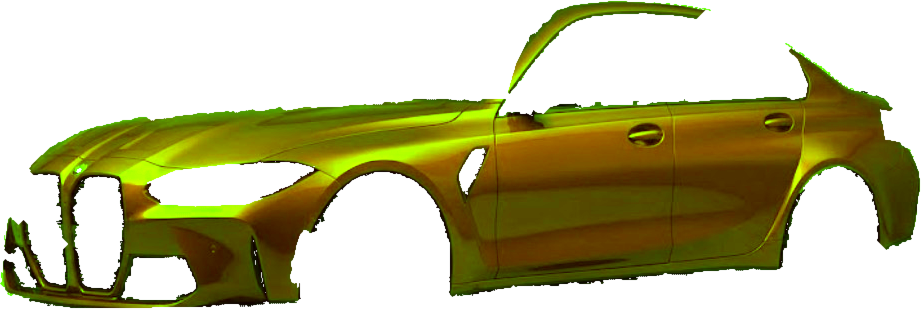
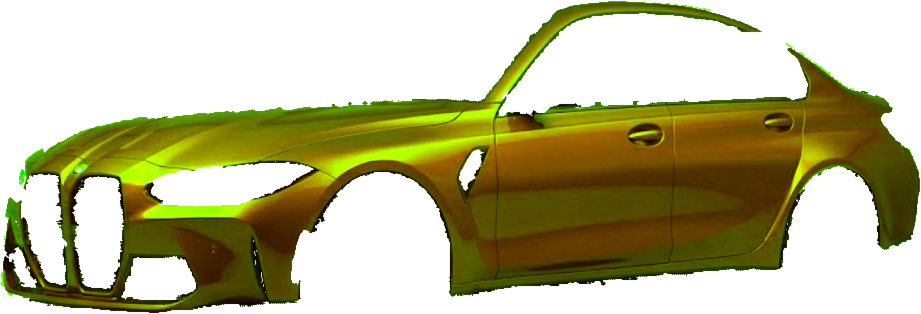
Wrap sedan: clean bumper corner, hood seam, A-pillar and roof-rail edges
Claude-Session: https://claude.ai/code/session_01TC8hHsQGEZ2GaHBM8k3cGS

diff --git a/main.js b/main.js
@@ -36,7 +36,7 @@ function arrowNav(buttons, select) {
 // box = where the shade layer sits in the photo: [x, y, width, height]; size defaults to 1200x900.
 // Bump ASSET_V whenever a photo or shade layer changes, so phones never pair a cached old
 // photo with a new shade layer (that is what makes the repaint look shifted).
-const ASSET_V = '20261109z';
+const ASSET_V = '20261110a';
 const toLin = v => Math.pow(v / 255, 2.2);
 const hexLin = h => { const n = parseInt(h.replace('#', ''), 16); return [n >> 16 & 255, n >> 8 & 255, n & 255].map(toLin); };
 const FIN = { gloss: [1, 1], satin: [0.8, 0.4], matte: [0.6, 0.12] };   // lighting contrast, shine kept
@@ -211,7 +211,7 @@ const wrapPaint = createPainter({
   stage: document.getElementById('wrap-stage'), initial: 'sports', color: '#C8102E',
   vehicles: {
     sports: { img: asset('wrap-sports.webp'), shade: asset('wrap-sports-shade.png'), box: [74, 219, 979, 435], size: [1117, 787], alt: 'Lamborghini Huracan with its body wrapped in the selected color' },
-    sedan: { img: asset('wrap-sedan.webp'), shade: asset('wrap-sedan-shade.png'), box: [42, 86, 921, 309], size: [1005, 526], alt: 'BMW M3 sedan with its body wrapped in the selected color' },
+    sedan: { img: asset('wrap-sedan.webp'), shade: asset('wrap-sedan-shade.png'), box: [42, 86, 921, 314], size: [1005, 526], alt: 'BMW M3 sedan with its body wrapped in the selected color' },
     suv: { img: asset('wrap-suv.webp'), shade: asset('wrap-suv-shade.png'), box: [49, 137, 807, 295], size: [958, 574], alt: 'Volvo XC40 SUV with its body wrapped in the selected color' },
     truck: { img: asset('wrap-truck.webp'), shade: asset('wrap-truck-shade.png'), box: [83, 53, 838, 278], size: [990, 481], alt: 'Ram TRX pickup with its body wrapped in the selected color' }
   }

diff --git a/index.html b/index.html
@@ -108,7 +108,7 @@
       <div class="wrap-tool">
         <div class="caliper-view wrap-view" id="wrap-view">
           <div class="cv-stage" id="wrap-stage">
-            <img id="wrap-img" src="assets/img/wrap-sports.webp?v=20261109z" alt="Lamborghini Huracan with its body wrapped in the selected color" width="1117" height="787" loading="lazy">
+            <img id="wrap-img" src="assets/img/wrap-sports.webp?v=20261110a" alt="Lamborghini Huracan with its body wrapped in the selected color" width="1117" height="787" loading="lazy">
             <canvas id="wrap-paint" width="1149" height="342" aria-hidden="true"></canvas>
           </div>
           <p class="cv-photo-note">Real car, rewrapped live</p>
@@ -161,7 +161,7 @@
       <div class="caliper-view" id="caliper-view" data-mode="photo">
         <canvas id="caliper-canvas" tabindex="0" role="img" aria-label="3D model of a wheel and brake caliper in the selected color. Drag, or use the arrow keys, to change the angle."></canvas>
         <div class="cv-stage" id="cv-stage">
-          <img id="caliper-img" src="assets/img/caliper-sports.webp?v=20261109z" alt="Black wheel on a red sports car" width="1200" height="900" loading="lazy">
+          <img id="caliper-img" src="assets/img/caliper-sports.webp?v=20261110a" alt="Black wheel on a red sports car" width="1200" height="900" loading="lazy">
           <canvas id="caliper-paint" width="193" height="347" aria-hidden="true"></canvas>
         </div>
         <p class="cv-hint" aria-hidden="true"><span class="cv-hint-icon"></span>Drag to rotate</p>
@@ -469,6 +469,6 @@
 </footer>
 
 <script src="caliper-3d.js?v=202611091725" defer></script>
-<script src="main.js?v=202611100000" defer></script>
+<script src="main.js?v=202611100010" defer></script>
 </body>
 </html>
